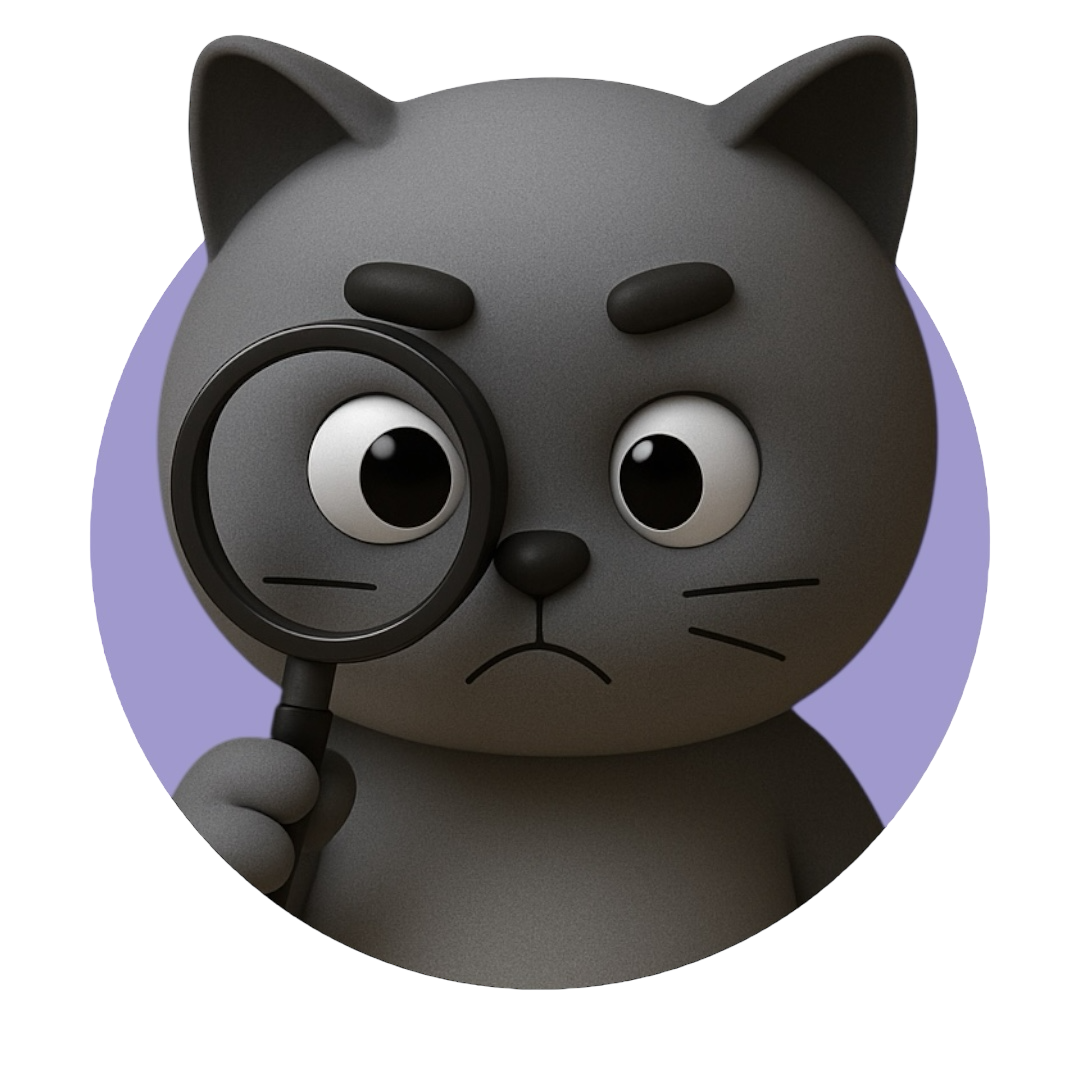
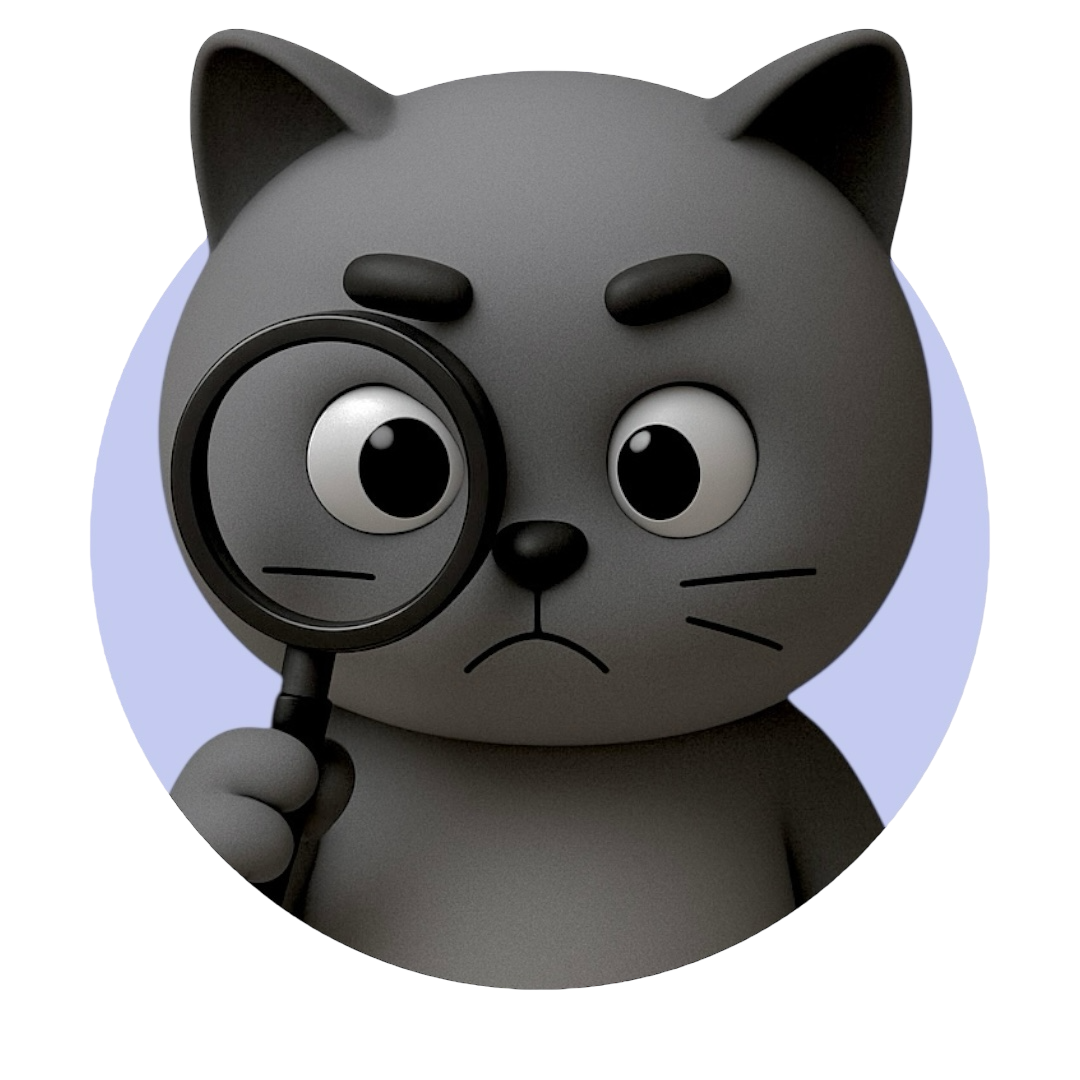
feat: 프로필 캐릭터 추가

diff --git a/frontend/src/pages/Home/Mypage.tsx b/frontend/src/pages/Home/Mypage.tsx
@@ -10,6 +10,7 @@ import profileImg1 from '../../assets/character/mewsdoc.png';
 import profileImg2 from '../../assets/character/mewsdoc2.png';
 import profileImg3 from '../../assets/character/mewsdoc3.png';
 import profileImg4 from '../../assets/character/mewsdoc4.png';
+import profileImg5 from '../../assets/character/mewsdoc5.png';
 
 import stampIcon from '../../assets/svg/jelly_on.svg';
 
@@ -31,7 +32,7 @@ export default function MyPage() {
   const [showNicknameEditPopup, setShowNicknameEditPopup] = useState(false);
   const [newNickname, setNewNickname] = useState('');
 
-  const profileImages = [profileImg1, profileImg2, profileImg3, profileImg4];
+  const profileImages = [profileImg1, profileImg2, profileImg3, profileImg4, profileImg5];
   const [selectedProfileIndex, setSelectedProfileIndex] = useState<number>(() => {
     const savedIndex = localStorage.getItem('profileIndex');
     return savedIndex !== null ? parseInt(savedIndex) : 0;
@@ -239,7 +240,7 @@ export default function MyPage() {
   <div className="fixed inset-0 flex items-center justify-center bg-black bg-opacity-30 z-50">
     <div className="bg-white rounded-xl p-6 w-80 text-center shadow-lg font-medium">
       <h3 className="text-lg font-semibold mb-4">프로필을 선택하세요</h3>
-      <div className="grid grid-cols-2 gap-4 mb-4">
+      <div className="grid grid-cols-3 gap-4 mb-4">
         {profileImages.map((img, index) => (
           <div
             key={index}

diff --git a/frontend/src/pages/Home/ChatPage.tsx b/frontend/src/pages/Home/ChatPage.tsx
@@ -4,6 +4,7 @@ import profileImg1 from '../../assets/character/mewsdoc.png';
 import profileImg2 from '../../assets/character/mewsdoc2.png';
 import profileImg3 from '../../assets/character/mewsdoc3.png';
 import profileImg4 from '../../assets/character/mewsdoc4.png';
+import profileImg5 from '../../assets/character/mewsdoc5.png';
 
 interface Message {
   id: number;
@@ -19,7 +20,7 @@ const messages: Message[] = [
   { id: 4, text: '나에게 말을 걸어줘!', delay: 1000 },
 ];
 
-const profileImages = [profileImg1, profileImg2, profileImg3, profileImg4];
+const profileImages = [profileImg1, profileImg2, profileImg3, profileImg4, profileImg5];
 
 function ChatProfile() {
   const savedIndex = localStorage.getItem('profileIndex');